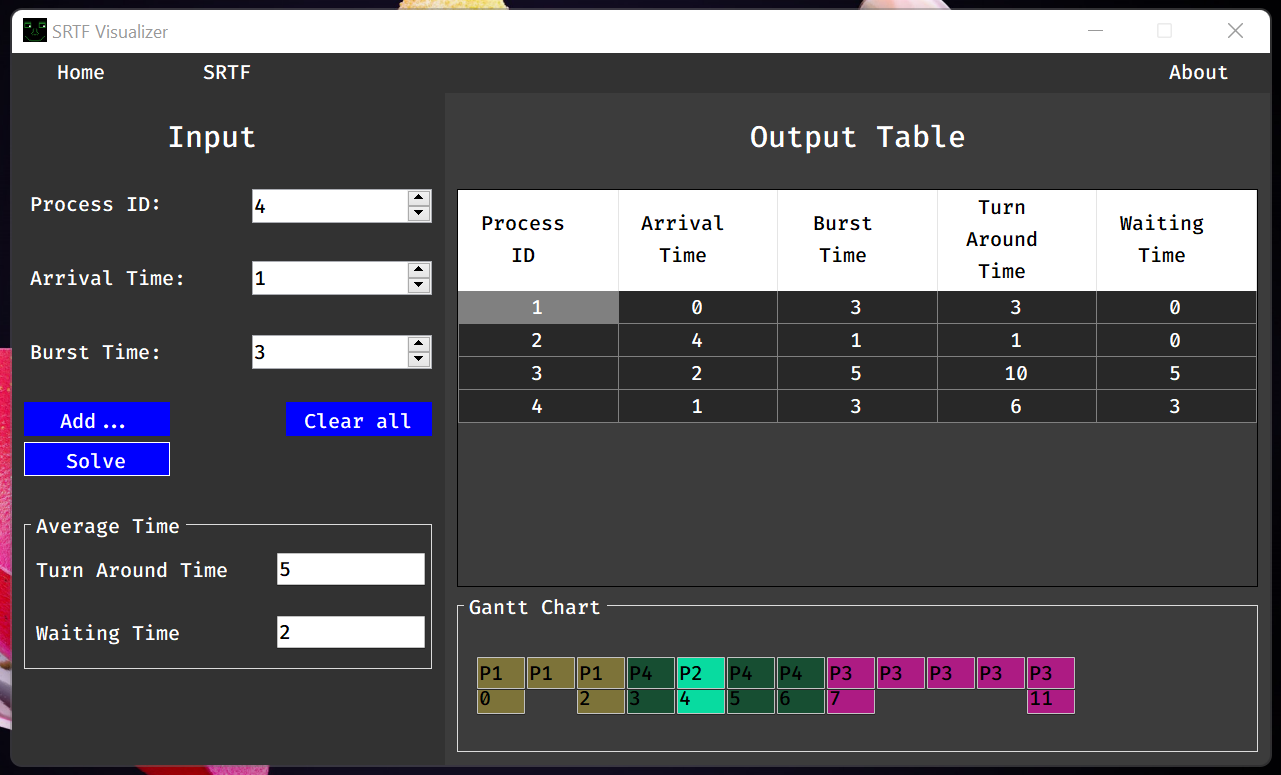
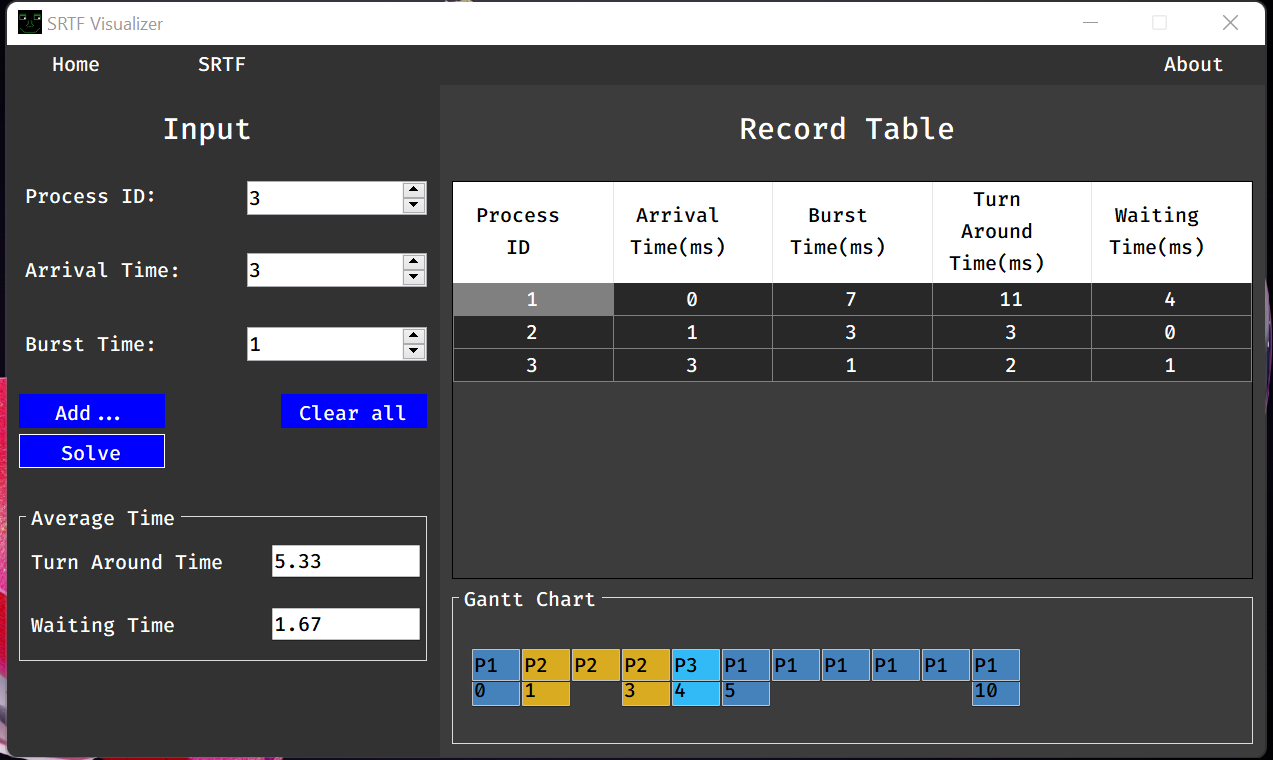
improved ui and fixed table visibility after clear all

diff --git a/srtf.Designer.cs b/srtf.Designer.cs
@@ -38,17 +38,7 @@ namespace SRTF_Visualizer
             System.ComponentModel.ComponentResourceManager resources = new System.ComponentModel.ComponentResourceManager(typeof(Srtf));
             this.panel1 = new System.Windows.Forms.Panel();
             this.recordTable2 = new System.Windows.Forms.DataGridView();
-            this.dataGridViewTextBoxColumn1 = new System.Windows.Forms.DataGridViewTextBoxColumn();
-            this.dataGridViewTextBoxColumn2 = new System.Windows.Forms.DataGridViewTextBoxColumn();
-            this.dataGridViewTextBoxColumn3 = new System.Windows.Forms.DataGridViewTextBoxColumn();
-            this.dataGridViewTextBoxColumn4 = new System.Windows.Forms.DataGridViewTextBoxColumn();
-            this.dataGridViewTextBoxColumn5 = new System.Windows.Forms.DataGridViewTextBoxColumn();
             this.recordTable1 = new System.Windows.Forms.DataGridView();
-            this.processID = new System.Windows.Forms.DataGridViewTextBoxColumn();
-            this.atValue = new System.Windows.Forms.DataGridViewTextBoxColumn();
-            this.btValue = new System.Windows.Forms.DataGridViewTextBoxColumn();
-            this.tatValue = new System.Windows.Forms.DataGridViewTextBoxColumn();
-            this.wtValue = new System.Windows.Forms.DataGridViewTextBoxColumn();
             this.chartBox = new System.Windows.Forms.GroupBox();
             this.gcPane = new System.Windows.Forms.Panel();
             this.label5 = new System.Windows.Forms.Label();
@@ -68,6 +58,16 @@ namespace SRTF_Visualizer
             this.label7 = new System.Windows.Forms.Label();
             this.wtBox = new System.Windows.Forms.TextBox();
             this.tatBox = new System.Windows.Forms.TextBox();
+            this.processID = new System.Windows.Forms.DataGridViewTextBoxColumn();
+            this.atValue = new System.Windows.Forms.DataGridViewTextBoxColumn();
+            this.btValue = new System.Windows.Forms.DataGridViewTextBoxColumn();
+            this.tatValue = new System.Windows.Forms.DataGridViewTextBoxColumn();
+            this.wtValue = new System.Windows.Forms.DataGridViewTextBoxColumn();
+            this.dataGridViewTextBoxColumn1 = new System.Windows.Forms.DataGridViewTextBoxColumn();
+            this.dataGridViewTextBoxColumn2 = new System.Windows.Forms.DataGridViewTextBoxColumn();
+            this.dataGridViewTextBoxColumn3 = new System.Windows.Forms.DataGridViewTextBoxColumn();
+            this.dataGridViewTextBoxColumn4 = new System.Windows.Forms.DataGridViewTextBoxColumn();
+            this.dataGridViewTextBoxColumn5 = new System.Windows.Forms.DataGridViewTextBoxColumn();
             this.panel1.SuspendLayout();
             ((System.ComponentModel.ISupportInitialize)(this.recordTable2)).BeginInit();
             ((System.ComponentModel.ISupportInitialize)(this.recordTable1)).BeginInit();
@@ -140,36 +140,6 @@ namespace SRTF_Visualizer
             this.recordTable2.TabIndex = 15;
             this.recordTable2.TabStop = false;
             // 
-            // dataGridViewTextBoxColumn1
-            // 
-            this.dataGridViewTextBoxColumn1.HeaderText = "Process ID";
-            this.dataGridViewTextBoxColumn1.MinimumWidth = 8;
-            this.dataGridViewTextBoxColumn1.Name = "dataGridViewTextBoxColumn1";
-            // 
-            // dataGridViewTextBoxColumn2
-            // 
-            this.dataGridViewTextBoxColumn2.HeaderText = "Arrival Time";
-            this.dataGridViewTextBoxColumn2.MinimumWidth = 8;
-            this.dataGridViewTextBoxColumn2.Name = "dataGridViewTextBoxColumn2";
-            // 
-            // dataGridViewTextBoxColumn3
-            // 
-            this.dataGridViewTextBoxColumn3.HeaderText = "Burst Time";
-            this.dataGridViewTextBoxColumn3.MinimumWidth = 8;
-            this.dataGridViewTextBoxColumn3.Name = "dataGridViewTextBoxColumn3";
-            // 
-            // dataGridViewTextBoxColumn4
-            // 
-            this.dataGridViewTextBoxColumn4.HeaderText = "Turn Around Time";
-            this.dataGridViewTextBoxColumn4.MinimumWidth = 8;
-            this.dataGridViewTextBoxColumn4.Name = "dataGridViewTextBoxColumn4";
-            // 
-            // dataGridViewTextBoxColumn5
-            // 
-            this.dataGridViewTextBoxColumn5.HeaderText = "Waiting Time";
-            this.dataGridViewTextBoxColumn5.MinimumWidth = 8;
-            this.dataGridViewTextBoxColumn5.Name = "dataGridViewTextBoxColumn5";
-            // 
             // recordTable1
             // 
             this.recordTable1.AllowUserToAddRows = false;
@@ -219,36 +189,6 @@ namespace SRTF_Visualizer
             this.recordTable1.TabIndex = 0;
             this.recordTable1.TabStop = false;
             // 
-            // processID
-            // 
-            this.processID.HeaderText = "Process ID";
-            this.processID.MinimumWidth = 8;
-            this.processID.Name = "processID";
-            // 
-            // atValue
-            // 
-            this.atValue.HeaderText = "Arrival Time";
-            this.atValue.MinimumWidth = 8;
-            this.atValue.Name = "atValue";
-            // 
-            // btValue
-            // 
-            this.btValue.HeaderText = "Burst Time";
-            this.btValue.MinimumWidth = 8;
-            this.btValue.Name = "btValue";
-            // 
-            // tatValue
-            // 
-            this.tatValue.HeaderText = "Turn Around Time";
-            this.tatValue.MinimumWidth = 8;
-            this.tatValue.Name = "tatValue";
-            // 
-            // wtValue
-            // 
-            this.wtValue.HeaderText = "Waiting Time";
-            this.wtValue.MinimumWidth = 8;
-            this.wtValue.Name = "wtValue";
-            // 
             // chartBox
             // 
             this.chartBox.Controls.Add(this.gcPane);
@@ -275,11 +215,11 @@ namespace SRTF_Visualizer
             this.label5.AutoSize = true;
             this.label5.FlatStyle = System.Windows.Forms.FlatStyle.Flat;
             this.label5.Font = new System.Drawing.Font("Fira Code Medium", 15F, System.Drawing.FontStyle.Bold, System.Drawing.GraphicsUnit.Point);
-            this.label5.Location = new System.Drawing.Point(297, 22);
+            this.label5.Location = new System.Drawing.Point(291, 22);
             this.label5.Name = "label5";
             this.label5.Size = new System.Drawing.Size(236, 47);
             this.label5.TabIndex = 13;
-            this.label5.Text = "Output Table";
+            this.label5.Text = "Record Table";
             // 
             // label1
             // 
@@ -388,11 +328,6 @@ namespace SRTF_Visualizer
             this.bt_in.Name = "bt_in";
             this.bt_in.Size = new System.Drawing.Size(180, 34);
             this.bt_in.TabIndex = 15;
-            this.bt_in.Value = new decimal(new int[] {
-            1,
-            0,
-            0,
-            0});
             // 
             // label6
             // 
@@ -447,6 +382,66 @@ namespace SRTF_Visualizer
             this.tatBox.Name = "tatBox";
             this.tatBox.Size = new System.Drawing.Size(150, 34);
             this.tatBox.TabIndex = 0;
+            // 
+            // processID
+            // 
+            this.processID.HeaderText = "Process ID";
+            this.processID.MinimumWidth = 8;
+            this.processID.Name = "processID";
+            // 
+            // atValue
+            // 
+            this.atValue.HeaderText = "Arrival Time(ms)";
+            this.atValue.MinimumWidth = 8;
+            this.atValue.Name = "atValue";
+            // 
+            // btValue
+            // 
+            this.btValue.HeaderText = "Burst Time(ms)";
+            this.btValue.MinimumWidth = 8;
+            this.btValue.Name = "btValue";
+            // 
+            // tatValue
+            // 
+            this.tatValue.HeaderText = "Turn Around Time(ms)";
+            this.tatValue.MinimumWidth = 8;
+            this.tatValue.Name = "tatValue";
+            // 
+            // wtValue
+            // 
+            this.wtValue.HeaderText = "Waiting Time(ms)";
+            this.wtValue.MinimumWidth = 8;
+            this.wtValue.Name = "wtValue";
+            // 
+            // dataGridViewTextBoxColumn1
+            // 
+            this.dataGridViewTextBoxColumn1.HeaderText = "Process ID";
+            this.dataGridViewTextBoxColumn1.MinimumWidth = 8;
+            this.dataGridViewTextBoxColumn1.Name = "dataGridViewTextBoxColumn1";
+            // 
+            // dataGridViewTextBoxColumn2
+            // 
+            this.dataGridViewTextBoxColumn2.HeaderText = "Arrival Time(ms)";
+            this.dataGridViewTextBoxColumn2.MinimumWidth = 8;
+            this.dataGridViewTextBoxColumn2.Name = "dataGridViewTextBoxColumn2";
+            // 
+            // dataGridViewTextBoxColumn3
+            // 
+            this.dataGridViewTextBoxColumn3.HeaderText = "Burst Time(ms)";
+            this.dataGridViewTextBoxColumn3.MinimumWidth = 8;
+            this.dataGridViewTextBoxColumn3.Name = "dataGridViewTextBoxColumn3";
+            // 
+            // dataGridViewTextBoxColumn4
+            // 
+            this.dataGridViewTextBoxColumn4.HeaderText = "Turn Around Time(ms)";
+            this.dataGridViewTextBoxColumn4.MinimumWidth = 8;
+            this.dataGridViewTextBoxColumn4.Name = "dataGridViewTextBoxColumn4";
+            // 
+            // dataGridViewTextBoxColumn5
+            // 
+            this.dataGridViewTextBoxColumn5.HeaderText = "Waiting Time(ms)";
+            this.dataGridViewTextBoxColumn5.MinimumWidth = 8;
+            this.dataGridViewTextBoxColumn5.Name = "dataGridViewTextBoxColumn5";
             // 
             // Srtf
             // 
@@ -512,17 +507,17 @@ namespace SRTF_Visualizer
         private System.Windows.Forms.Label label7;
         private System.Windows.Forms.TextBox wtBox;
         private System.Windows.Forms.TextBox tatBox;
-        private System.Windows.Forms.DataGridViewTextBoxColumn processID;
-        private System.Windows.Forms.DataGridViewTextBoxColumn atValue;
-        private System.Windows.Forms.DataGridViewTextBoxColumn btValue;
-        private System.Windows.Forms.DataGridViewTextBoxColumn tatValue;
-        private System.Windows.Forms.DataGridViewTextBoxColumn wtValue;
         private System.Windows.Forms.DataGridView recordTable2;
+        private System.Windows.Forms.Panel gcPane;
         private System.Windows.Forms.DataGridViewTextBoxColumn dataGridViewTextBoxColumn1;
         private System.Windows.Forms.DataGridViewTextBoxColumn dataGridViewTextBoxColumn2;
         private System.Windows.Forms.DataGridViewTextBoxColumn dataGridViewTextBoxColumn3;
         private System.Windows.Forms.DataGridViewTextBoxColumn dataGridViewTextBoxColumn4;
         private System.Windows.Forms.DataGridViewTextBoxColumn dataGridViewTextBoxColumn5;
-        private System.Windows.Forms.Panel gcPane;
+        private System.Windows.Forms.DataGridViewTextBoxColumn processID;
+        private System.Windows.Forms.DataGridViewTextBoxColumn atValue;
+        private System.Windows.Forms.DataGridViewTextBoxColumn btValue;
+        private System.Windows.Forms.DataGridViewTextBoxColumn tatValue;
+        private System.Windows.Forms.DataGridViewTextBoxColumn wtValue;
     }
 }

diff --git a/Srtf.cs b/Srtf.cs
@@ -19,7 +19,6 @@ namespace SRTF_Visualizer
         public Srtf()
         {
             InitializeComponent();
-
         }
 
         /*
@@ -29,13 +28,11 @@ namespace SRTF_Visualizer
         readonly List<Process> ganttChart = new();
         readonly List<int> Arrival_time = new();
         readonly List<int> burst_time = new();
-        readonly List<int> flag = new();
-        readonly List<int> service_time = new();
         int Process_ID;
         int Process_Arrival;
         int Process_Burst;
         int time = 0;
-        int complete = 0, shortest = 0, finish_time, minimum;
+        int complete = 0, shortest = 0, finish_time = 0, minimum = 0;
         float total_waiting_time = 0f, total_turnAround_time = 0f;
         string[] row = new string[50];
         bool sameProcID = false;
@@ -83,12 +80,12 @@ namespace SRTF_Visualizer
                 recordTable1.Rows.Add(row);
             }
 
-            if ((total_turnAround_time / Process_List.Count) == 0)
+            if ((total_turnAround_time / Process_List.Count) == 0.0)
                tatBox.Text = "0.00";
             else
                 tatBox.Text = (total_turnAround_time / Process_List.Count).ToString("#.##");
 
-            if ((total_waiting_time / Process_List.Count) == 0)
+            if ((total_waiting_time / Process_List.Count) == 0.0)
                 wtBox.Text = "0.00";
             else
                 wtBox.Text = (total_waiting_time / Process_List.Count).ToString("#.##");
@@ -100,6 +97,7 @@ namespace SRTF_Visualizer
         private void Add_btn_Click(object sender, EventArgs e)
         {
             recordTable1.Visible = false;
+            recordTable2.Visible = true;
             Process_ID = Convert.ToInt32(procID_in.Value);
             Process_Burst = Convert.ToInt32(bt_in.Text);
             Process_Arrival = Convert.ToInt32(at_in.Text);
@@ -143,7 +141,7 @@ namespace SRTF_Visualizer
         {
             DialogResult dialog = MessageBox.Show("Do you really want to Remove all Process?", "SRTF Visualizer: Exit", MessageBoxButtons.YesNo, MessageBoxIcon.Exclamation);
 
-            // Just reset hehe
+            // Just reset
             if (dialog == DialogResult.Yes)
             {
                 total_turnAround_time = 0;
@@ -158,39 +156,39 @@ namespace SRTF_Visualizer
                 minimum = 0; 
                 sameProcID = false;
                 Process_List.Clear(); 
-                ganttChart.Clear(); 
-                flag.Clear();
+                ganttChart.Clear();
                 burst_time.Clear(); 
-                Arrival_time.Clear(); 
-                service_time.Clear();
+                Arrival_time.Clear();
+                tatBox.Text = "";
+                wtBox.Text = "";
+                gcPane.Controls.Clear();
                 recordTable1.Rows.Clear();
                 recordTable1.Refresh();
                 recordTable2.Rows.Clear();
                 recordTable2.Refresh();
-                tatBox.Text = wtBox.Text = "";
-                gcPane.Controls.Clear();
             }
         }
 
         /*
          * SRTF Core Function
          */
-        public void SRTFfindavgTime(List<Process> Process_List, int processLength)
+        public void SRTFfindavgTime(List<Process> Process_List, int processCount)
         {
             minimum = int.MaxValue;
 
-            // Copy the burst time into rt[] 
-            for (int process = 0; process < processLength; process++)
+            for (int process = 0; process < processCount; process++)
             {
                 burst_time.Add(Process_List[process].burst_time); // making new burst time list 
             }
             // do until all processes are done
-            while (complete != processLength)
+            while (complete != processCount)
             {
-                // find minimum remaing time process, from process arrived till now
-                for (int procTime = 0; procTime < processLength; procTime++)
+                // find minimum remaining time process, from process arrived till now
+                for (int procTime = 0; procTime < processCount; procTime++)
                 {
-                    if ((Process_List[procTime].arrival_time <= time) && (burst_time[procTime] < minimum) && burst_time[procTime] > 0)
+                    if ((Process_List[procTime].arrival_time <= time) &&
+                        (burst_time[procTime] < minimum) &&
+                        burst_time[procTime] > 0)
                     {
                         minimum = burst_time[procTime];
                         shortest = procTime;
@@ -198,11 +196,12 @@ namespace SRTF_Visualizer
                     }
                 }
 
-                if (sameProcID == false)
+                if (!sameProcID)
                 {
                     time++;
                     continue;
                 }
+
                 ganttChart.Add(Process_List[shortest]);
 
                 // reduce remaining time by one 
@@ -222,7 +221,7 @@ namespace SRTF_Visualizer
                 // Update minimum 
                 minimum = burst_time[shortest];
 
-                // if prcess is done executing
+                // if process is done executing
                 if (burst_time[shortest] == 0)
                 {
                     minimum = int.MaxValue;
@@ -234,7 +233,7 @@ namespace SRTF_Visualizer
                     //finish time in array
                     finish_time = time + 1;
 
-                    // waiting time calculate
+                    // waiting time calculate & turn around time
                     Process_List[shortest].Pwaiting_time = finish_time - Process_List[shortest].burst_time - Process_List[shortest].arrival_time;
                     Process_List[shortest].PturnAround_time = Process_List[shortest].burst_time + Process_List[shortest].Pwaiting_time;
 
@@ -247,7 +246,7 @@ namespace SRTF_Visualizer
 
             PrintGanttChart(ganttChart);
 
-            for (int process = 0; process < processLength; process++)
+            for (int process = 0; process < processCount; process++)
             {
                 total_waiting_time += Process_List[process].Pwaiting_time;
                 total_turnAround_time += Process_List[process].PturnAround_time;
@@ -266,8 +265,7 @@ namespace SRTF_Visualizer
             textBox6.Size = new System.Drawing.Size(gcY, gcX);
             textBox6.BackColor = ganttChart[0].process_color;
             textBox6.Location = new Point(Y, 59);
-            textBox6.Text = 0.ToString();
- 
+            textBox6.Text = 0.ToString();       
 
             for (; num < ganttChart.Count; num++)
             {

diff --git a/README.md b/README.md
@@ -19,4 +19,4 @@ SRTF visualizer is a C# based program with GUI(Windows Forms) to show the SRTF a
 
 ## Note
 
-This is an experimental and inaccurate, you can improve or use as learning purposes
+This is my final project for my 1st semester in 2nd yr. cs major and if you want, you can improve or use as learning purposes.
